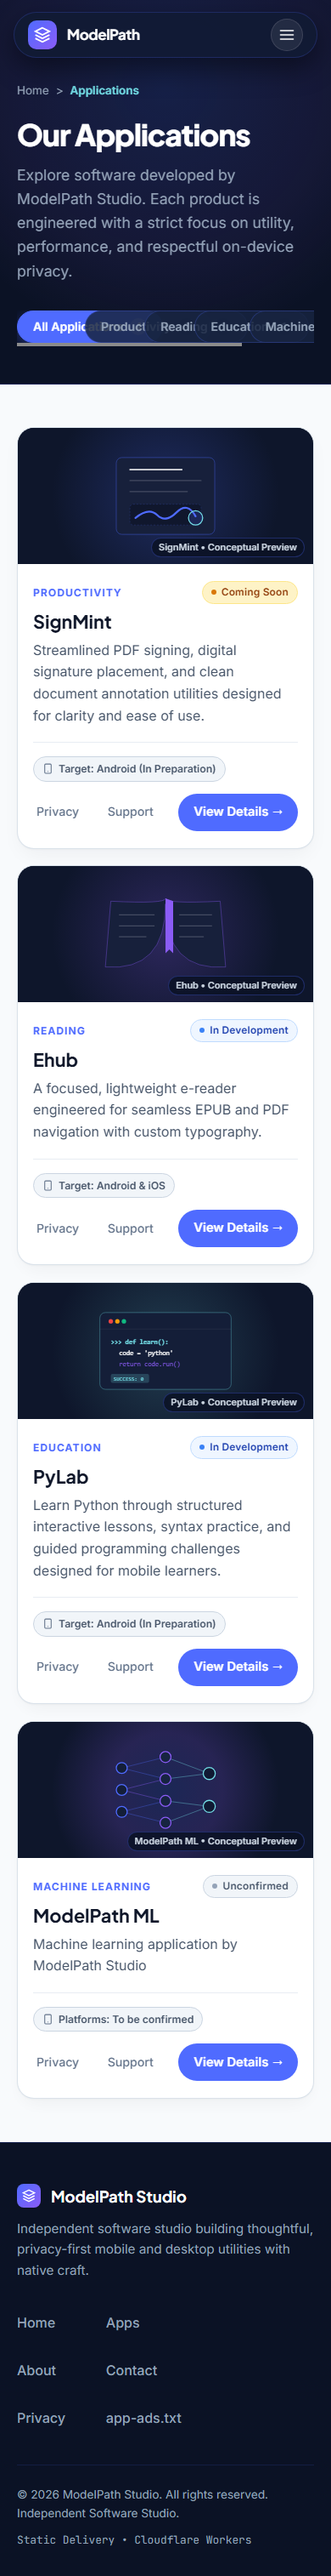
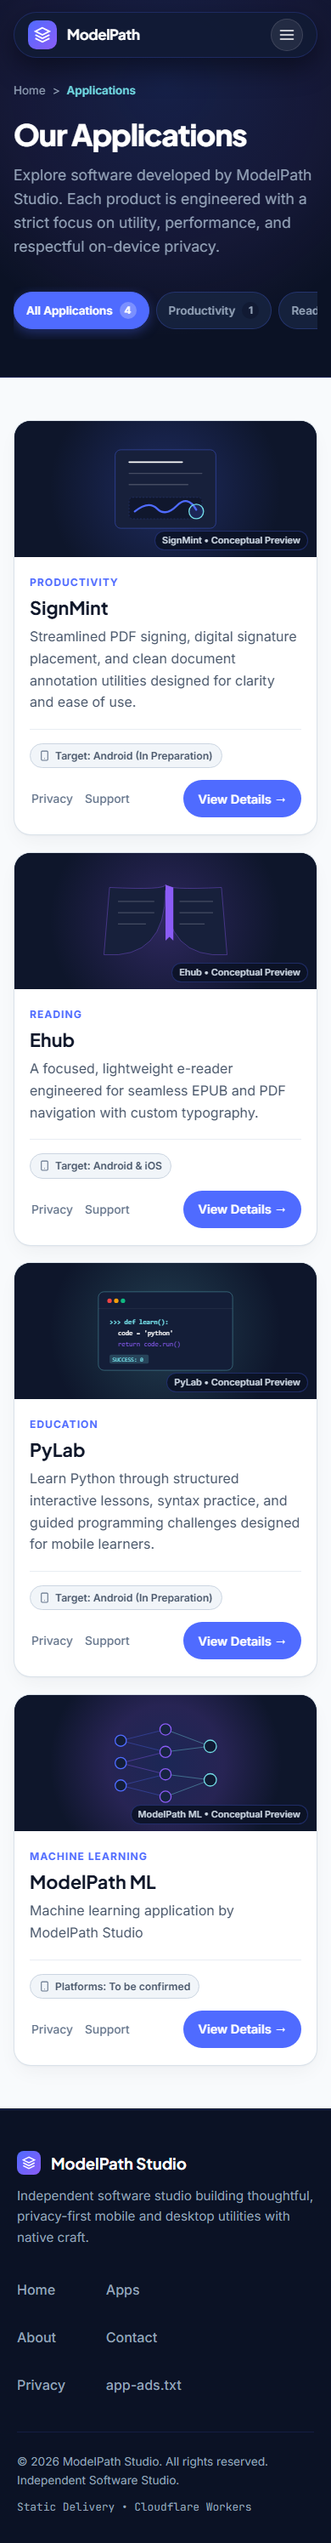
fix(mobile): scrollable category filter tabs, single-line details button, and public status label cleanup

diff --git a/design/capture-cleanup.js b/design/capture-cleanup.js
@@ -1,0 +1,249 @@
+import { spawn } from 'child_process';
+import http from 'http';
+import fs from 'fs';
+import path from 'path';
+import os from 'os';
+
+const edgePath = "C:\\Program Files (x86)\\Microsoft\\Edge\\Application\\msedge.exe";
+const cdpPort = 9229;
+const httpPort = 4329;
+const distDir = "D:\\modelpath\\dist";
+const artifactDir = "C:/Users/dipud/.gemini/antigravity-ide/brain/879f1c33-c566-43a7-8c03-22b0fcb2196c";
+const gate12Dir = "D:\\modelpath\\design\\gate-12";
+
+if (!fs.existsSync(gate12Dir)) fs.mkdirSync(gate12Dir, { recursive: true });
+if (!fs.existsSync(artifactDir)) fs.mkdirSync(artifactDir, { recursive: true });
+
+// 1. Start Static HTTP Server on httpPort
+const server = http.createServer((req, res) => {
+  let reqPath = req.url.split('?')[0];
+  if (reqPath.endsWith('/')) reqPath += 'index.html';
+  let filePath = path.join(distDir, reqPath);
+  if (!fs.existsSync(filePath) && fs.existsSync(filePath + '.html')) {
+    filePath += '.html';
+  } else if (!fs.existsSync(filePath) && fs.existsSync(path.join(filePath, 'index.html'))) {
+    filePath = path.join(filePath, 'index.html');
+  }
+
+  if (fs.existsSync(filePath) && fs.statSync(filePath).isFile()) {
+    const ext = path.extname(filePath).toLowerCase();
+    const contentTypes = {
+      '.html': 'text/html; charset=utf-8',
+      '.css': 'text/css',
+      '.js': 'application/javascript',
+      '.json': 'application/json',
+      '.png': 'image/png',
+      '.jpg': 'image/jpeg',
+      '.svg': 'image/svg+xml',
+      '.txt': 'text/plain',
+      '.xml': 'application/xml',
+    };
+    res.writeHead(200, { 'Content-Type': contentTypes[ext] || 'application/octet-stream' });
+    fs.createReadStream(filePath).pipe(res);
+  } else {
+    res.writeHead(404);
+    res.end('Not Found');
+  }
+});
+
+await new Promise((resolve) => server.listen(httpPort, resolve));
+console.log(`Static server running on port ${httpPort}`);
+
+// 2. Launch Edge with isolated temp user data dir
+const tempUserData = fs.mkdtempSync(path.join(os.tmpdir(), 'edge-cleanup-cdp-'));
+console.log("Starting Edge headless on port", cdpPort);
+const edge = spawn(edgePath, [
+  '--headless=new',
+  `--remote-debugging-port=${cdpPort}`,
+  `--user-data-dir=${tempUserData}`,
+  '--no-first-run',
+  '--no-default-browser-check',
+  '--disable-gpu',
+  'about:blank'
+]);
+
+await new Promise(r => setTimeout(r, 2000));
+
+try {
+  const versionRes = await fetch(`http://127.0.0.1:${cdpPort}/json/version`);
+  const versionData = await versionRes.json();
+  const wsUrl = versionData.webSocketDebuggerUrl;
+
+  const ws = new WebSocket(wsUrl);
+  let id = 1;
+  const pending = new Map();
+
+  ws.onmessage = (event) => {
+    const msg = JSON.parse(event.data);
+    if (msg.id && pending.has(msg.id)) {
+      pending.get(msg.id)(msg);
+      pending.delete(msg.id);
+    }
+  };
+
+  await new Promise(r => ws.onopen = r);
+
+  function send(method, params = {}) {
+    return new Promise(resolve => {
+      const msgId = id++;
+      pending.set(msgId, resolve);
+      ws.send(JSON.stringify({ id: msgId, method, params }));
+    });
+  }
+
+  const tasks = [
+    {
+      name: 'apps-directory-mobile-390px',
+      url: `http://localhost:${httpPort}/apps/`,
+      width: 390,
+      mobile: true
+    },
+    {
+      name: 'apps-directory-mobile-320px',
+      url: `http://localhost:${httpPort}/apps/`,
+      width: 320,
+      mobile: true
+    },
+    {
+      name: 'signmint-detail-mobile-390px',
+      url: `http://localhost:${httpPort}/apps/signmint/`,
+      width: 390,
+      mobile: true
+    }
+  ];
+
+  for (const task of tasks) {
+    console.log(`\n=== Capturing: ${task.name} ===`);
+    const newTarget = await send('Target.createTarget', { url: task.url });
+    const targetId = newTarget.result.targetId;
+
+    const attached = await send('Target.attachToTarget', { targetId, flatten: true });
+    const sessionId = attached.result.sessionId;
+
+    function sendSession(method, params = {}) {
+      return new Promise(resolve => {
+        const msgId = id++;
+        pending.set(msgId, resolve);
+        ws.send(JSON.stringify({ id: msgId, sessionId, method, params }));
+      });
+    }
+
+    await sendSession('Page.enable');
+    await sendSession('DOM.enable');
+
+    await new Promise(r => setTimeout(r, 800));
+
+    // Set viewport
+    await sendSession('Emulation.setDeviceMetricsOverride', {
+      width: task.width,
+      height: 900,
+      deviceScaleFactor: 1,
+      mobile: task.mobile
+    });
+    await new Promise(r => setTimeout(r, 400));
+
+    // Run programmatic QA checks
+    const qaRes = await sendSession('Runtime.evaluate', {
+      expression: `(() => {
+        const docWidth = document.documentElement.scrollWidth;
+        const winWidth = window.innerWidth;
+        const pageOverflow = docWidth > winWidth;
+        
+        // Category tabs check
+        const filterNav = document.querySelector('.filter-nav');
+        const filterTabs = document.querySelector('.filter-tabs');
+        let filterNavInfo = null;
+        if (filterNav && filterTabs) {
+          filterNavInfo = {
+            navClientWidth: filterNav.clientWidth,
+            tabsScrollWidth: filterTabs.scrollWidth,
+            isHorizontallyScrollable: filterTabs.scrollWidth > filterNav.clientWidth,
+            navOverflowX: window.getComputedStyle(filterNav).overflowX
+          };
+        }
+
+        // View Details buttons check
+        const viewButtons = Array.from(document.querySelectorAll('.btn-explore'));
+        const buttonWrapping = viewButtons.map(btn => {
+          const span = btn.querySelector('span');
+          const btnStyle = window.getComputedStyle(btn);
+          const spanStyle = span ? window.getComputedStyle(span) : null;
+          return {
+            text: btn.innerText.trim(),
+            clientWidth: btn.clientWidth,
+            clientHeight: btn.clientHeight,
+            whiteSpace: btnStyle.whiteSpace,
+            spanWhiteSpace: spanStyle ? spanStyle.whiteSpace : null,
+            lines: Math.round(btn.clientHeight / (parseFloat(btnStyle.lineHeight) || 20))
+          };
+        });
+
+        // Visible status badges check
+        const badges = Array.from(document.querySelectorAll('.status-badge, .portfolio-status-chip, .feature-status-chip, .category-chip'));
+        const visibleBadges = badges.map(b => ({
+          text: b.innerText.trim(),
+          classes: b.className
+        }));
+
+        return {
+          winWidth,
+          docWidth,
+          pageOverflow,
+          filterNavInfo,
+          buttonWrapping,
+          visibleBadgesCount: visibleBadges.length,
+          visibleBadges
+        };
+      })()`,
+      returnByValue: true
+    });
+
+    console.log(`QA Checks for ${task.name}:`, JSON.stringify(qaRes.result.result.value, null, 2));
+
+    const heightRes = await sendSession('Runtime.evaluate', {
+      expression: 'Math.max(document.body.scrollHeight, document.documentElement.scrollHeight)',
+      returnByValue: true
+    });
+    const fullHeight = heightRes.result.result.value || 900;
+    console.log(`${task.name} full height: ${fullHeight}px`);
+
+    await sendSession('Emulation.setDeviceMetricsOverride', {
+      width: task.width,
+      height: fullHeight,
+      deviceScaleFactor: 1,
+      mobile: task.mobile
+    });
+    await new Promise(r => setTimeout(r, 500));
+
+    const screenshot = await sendSession('Page.captureScreenshot', {
+      format: 'png',
+      clip: {
+        x: 0,
+        y: 0,
+        width: task.width,
+        height: fullHeight,
+        scale: 1
+      }
+    });
+
+    const buffer = Buffer.from(screenshot.result.data, 'base64');
+    const localPath = path.join(gate12Dir, `${task.name}.png`);
+    const artifactPath = path.join(artifactDir, `${task.name}.png`);
+
+    fs.writeFileSync(localPath, buffer);
+    fs.writeFileSync(artifactPath, buffer);
+    console.log(`Saved screenshot: ${task.name}.png (${buffer.length} bytes) to gate-12 and artifactDir`);
+
+    // Clean up target
+    await send('Target.closeTarget', { targetId });
+  }
+
+  console.log('\n=== ALL SCREENSHOTS CAPTURED AND VERIFIED SUCCESSFULLY ===');
+} catch (err) {
+  console.error("Capture failure:", err);
+} finally {
+  edge.kill();
+  server.close();
+  try { fs.rmSync(tempUserData, { recursive: true, force: true }); } catch (_) {}
+  process.exit(0);
+}
